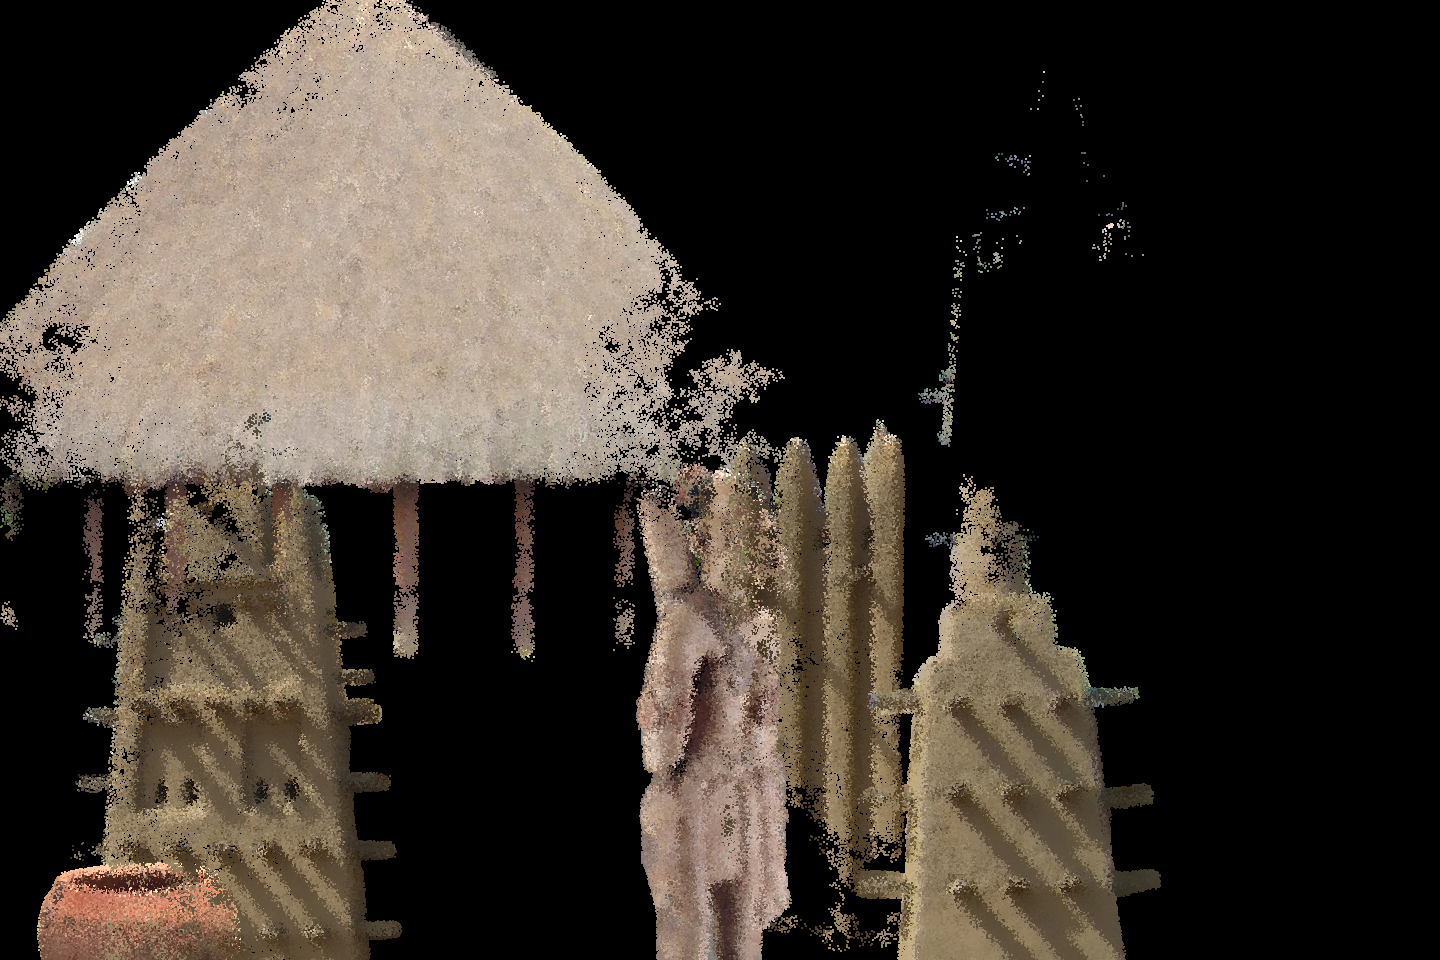
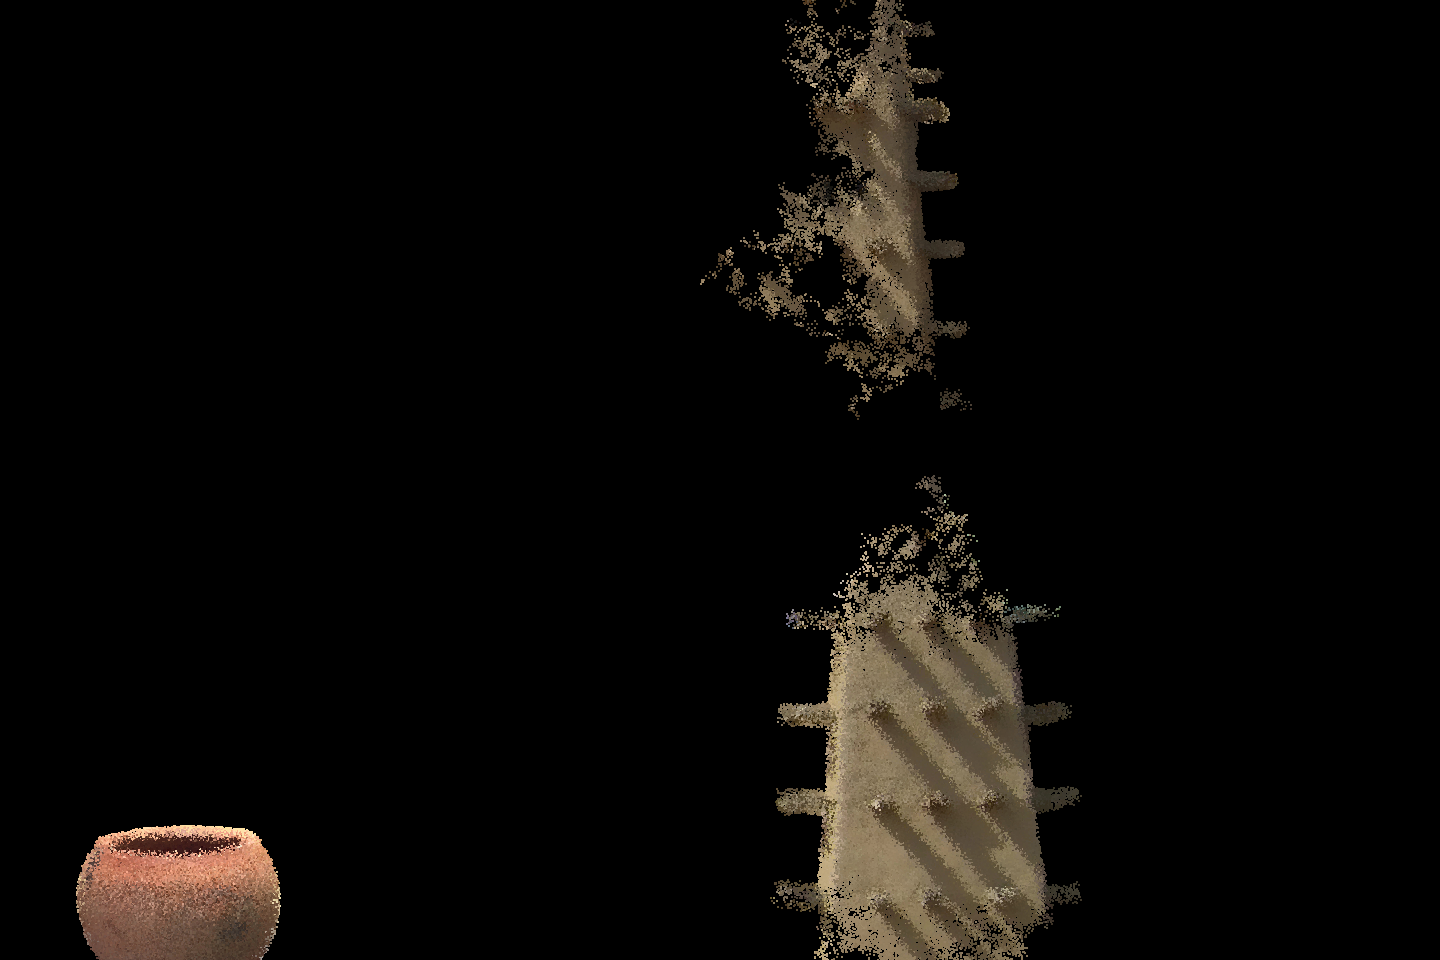
consolidated a lot of loose code into a class called 'scrapbook' that can run the whole animation with one def

diff --git a/prototype.py b/prototype.py
@@ -35,92 +35,86 @@ image_objects = []
 for i in range(len(image_names)):
     image_objects.append(pygame.image.load(image_names[i]))
 
-# class that creates paint objects that move randomly
-class Paint():
-    def __init__(self, x, y, surface, image, offset):
-        self.x = x
-        self.y = y
-        self.offset_x = offset - self.x
-        self.offset_y = 470 - self.y
+class Scrapbook():
+    def __init__(self, scraps, place_names, speed, surface):
+        self.images = scraps
+        self.places = place_names
         self.surface = surface
-        self.image = image
-        self.get_color(self.image)
-        self.radius = 1
-        self.directions_x = [-4, -3, -2, -1, 0, 1, 2, 3, 4]
-        self.directions_y = [-4, -3, -2, -1, 0, 1, 2, 3, 4]
-        # self.directions_x = [-2, -1, 0, 1, 2]
-        # self.directions_y = [-2, -1, 0, 1, 2]
-        self.speed = 0
+        self.paints = []
+        self.time_range = speed
         
-    # takes the color of the pixel at a given location to give to the paint function
-    def get_color(self, image):
-        if self.x + self.offset_x >= image.get_width() or self.x + self.offset_x <= 0:
-            return 
-        if self.y + self.offset_y >= image.get_height() or self.y + self.offset_y <= 0:
-            return
-        self.color = image.get_at((self.x + self.offset_x, self.y + self.offset_y))
+        self.initialize_array()
+        
+        self.index = random.randint(1, len(self.paints) - 1)
+            
+    # class that creates paint objects that move randomly
+    class Paint():
+        def __init__(self, x, y, surface, image):
+            self.x = x
+            self.y = y
+            self.offset_x = 720 - self.x
+            self.offset_y = 470 - self.y
+            self.surface = surface
+            self.image = image
+            self.get_color(self.image)
+            self.radius = 1
+            self.directions_x = [-4, -3, -2, -1, 0, 1, 2, 3, 4]
+            self.directions_y = [-4, -3, -2, -1, 0, 1, 2, 3, 4]
+            # self.directions_x = [-2, -1, 0, 1, 2]
+            # self.directions_y = [-2, -1, 0, 1, 2]
+            self.speed = 0
+            
+        # takes the color of the pixel at a given location to give to the paint function
+        def get_color(self, image):
+            if self.x + self.offset_x >= image.get_width() or self.x + self.offset_x <= 0:
+                return 
+            if self.y + self.offset_y >= image.get_height() or self.y + self.offset_y <= 0:
+                return
+            self.color = image.get_at((self.x + self.offset_x, self.y + self.offset_y))
 
-    # moves the paint objects in given directions
-    def paint(self):
-        self.get_color(self.image)
-        self.speed += 1
-        if self.speed%2 != 0:
-            return
-        self.x += self.directions_x[random.randint(0, len(self.directions_x) - 1)]
-        self.y += self.directions_y[random.randint(0, len(self.directions_y) - 1)]
-        if self.color[3] == 0:
-            return
-        pygame.draw.circle(self.surface, self.color, (self.x, self.y), self.radius, 0)
+        # moves the paint objects in given directions
+        def paint(self):
+            self.get_color(self.image)
+            self.speed += 1
+            if self.speed%2 != 0:
+                return
+            self.x += self.directions_x[random.randint(0, len(self.directions_x) - 1)]
+            self.y += self.directions_y[random.randint(0, len(self.directions_y) - 1)]
+            if self.color[3] == 0:
+                return
+            pygame.draw.circle(self.surface, self.color, (self.x, self.y), self.radius, 0)
+           
+    def initialize_array(self):
+        # array that contains arrays of paint objects
+        self.paints = []
 
-test_paint = []
-test_x = random.randint(0, width)
-test_y = random.randint(0, height)
-for i in range(200):
-    test_paint.append(Paint(test_x, test_y, window, image_objects[0], 720))
-test_paint2 = []
-test_x = random.randint(0, width)
-test_y = random.randint(0, height)
-for i in range(200):
-    test_paint2.append(Paint(test_x, test_y, window, image_objects[1], 720))
-test_paint3 = []
-test_x = random.randint(0, width)
-test_y = random.randint(0, height)
-for i in range(200):
-    test_paint3.append(Paint(test_x, test_y, window, image_objects[2], 720))
-test_paint4 = []
-test_x = random.randint(0, width)
-test_y = random.randint(0, height)
-for i in range(200):
-    test_paint4.append(Paint(test_x, test_y, window, image_objects[3], 720))
-test_paint5 = []
-test_x = random.randint(0, width)
-test_y = random.randint(0, height)
-for i in range(200):
-    test_paint5.append(Paint(test_x, test_y, window, image_objects[4], 720))
-test_paint6 = []
-test_x = random.randint(0, width)
-test_y = random.randint(0, height)
-for i in range(200):
-    test_paint6.append(Paint(test_x, test_y, window, image_objects[5], 720))
+        # adds a paint object array for every image in image_objects
+        for j in range(len(self.images)):
+            paint_loop = []
+            test_x = random.randint(0, width)
+            test_y = random.randint(0, height)
+            for i in range(200):
+                paint_loop.append(self.Paint(test_x, test_y, window, self.images[j]))
+            self.paints.append(paint_loop)
+           
+    # using the given time constraints, run the scrapbook, pasting images and places names 
+    def get_crafting(self):
+        if (pygame.time.get_ticks()/1000) < self.time_range:
+            for i in range(200):
+                self.paints[self.index][i].paint()
+            for k in range(200):
+                self.paints[self.index - 1][k].paint()
+        elif (pygame.time.get_ticks()/1000) <= (self.time_range + 0.01):
+            self.paints.pop(self.index)
+            self.paints.pop(self.index - 1)
+            self.index = random.randint(1, len(self.paints) - 1)
+            self.time_range += 30
+   
+vernacular_sketchbook = Scrapbook(image_objects, image_names, 30, window) 
+ 
 
 while True:
-    # window.fill(0)
-
-    if (pygame.time.get_ticks()/1000) < 120:
-        for i in range(200):
-            test_paint[i].paint()
-        for i in range(200):
-            test_paint2[i].paint()
-        for i in range(200):
-            test_paint3[i].paint()
-        for i in range(200):
-            test_paint4[i].paint()
-        for i in range(200):
-            test_paint5[i].paint()
-        for i in range(200):
-            test_paint6[i].paint()
-    else:
-            pygame.image.save(window, "testing.png")
+    vernacular_sketchbook.get_crafting()
 
     pygame.display.update()
     clock.tick(120)
